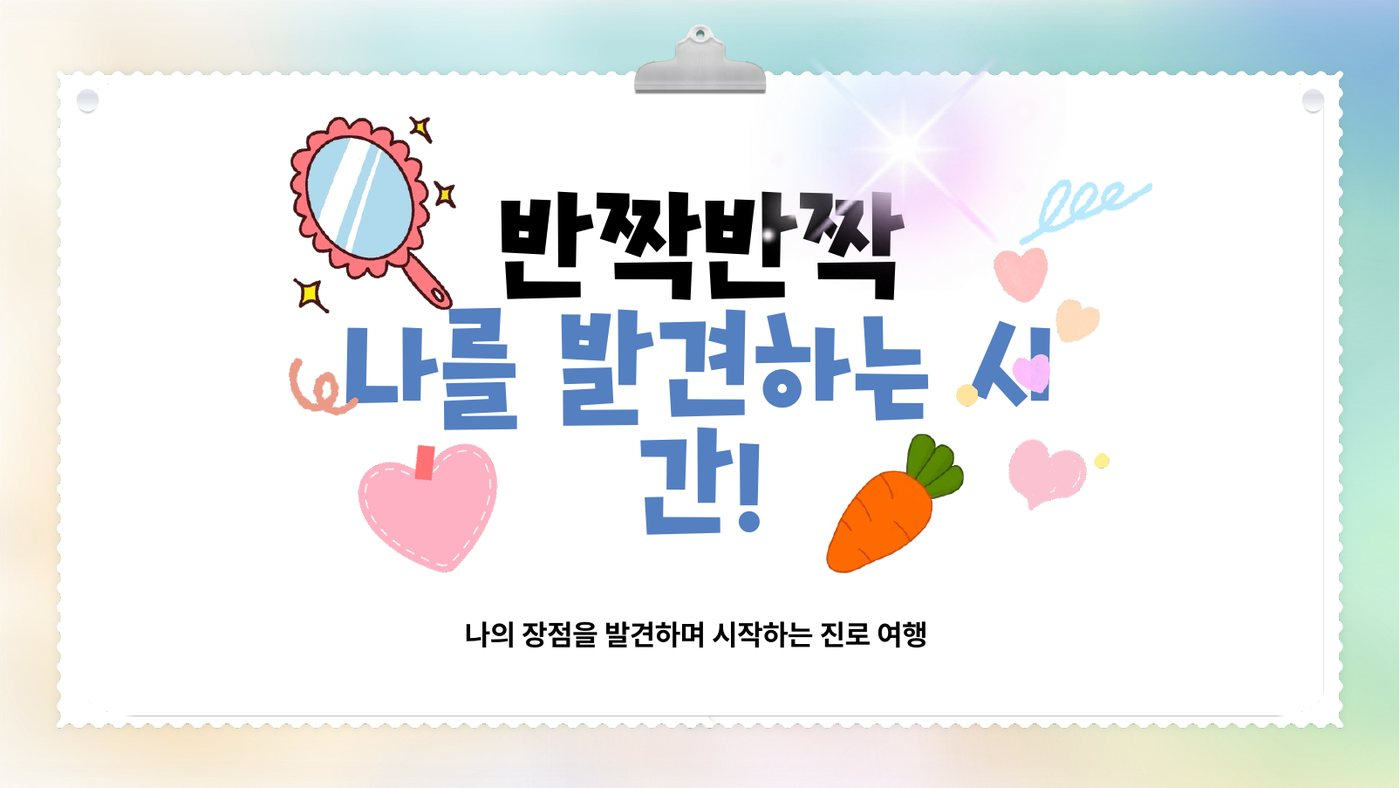
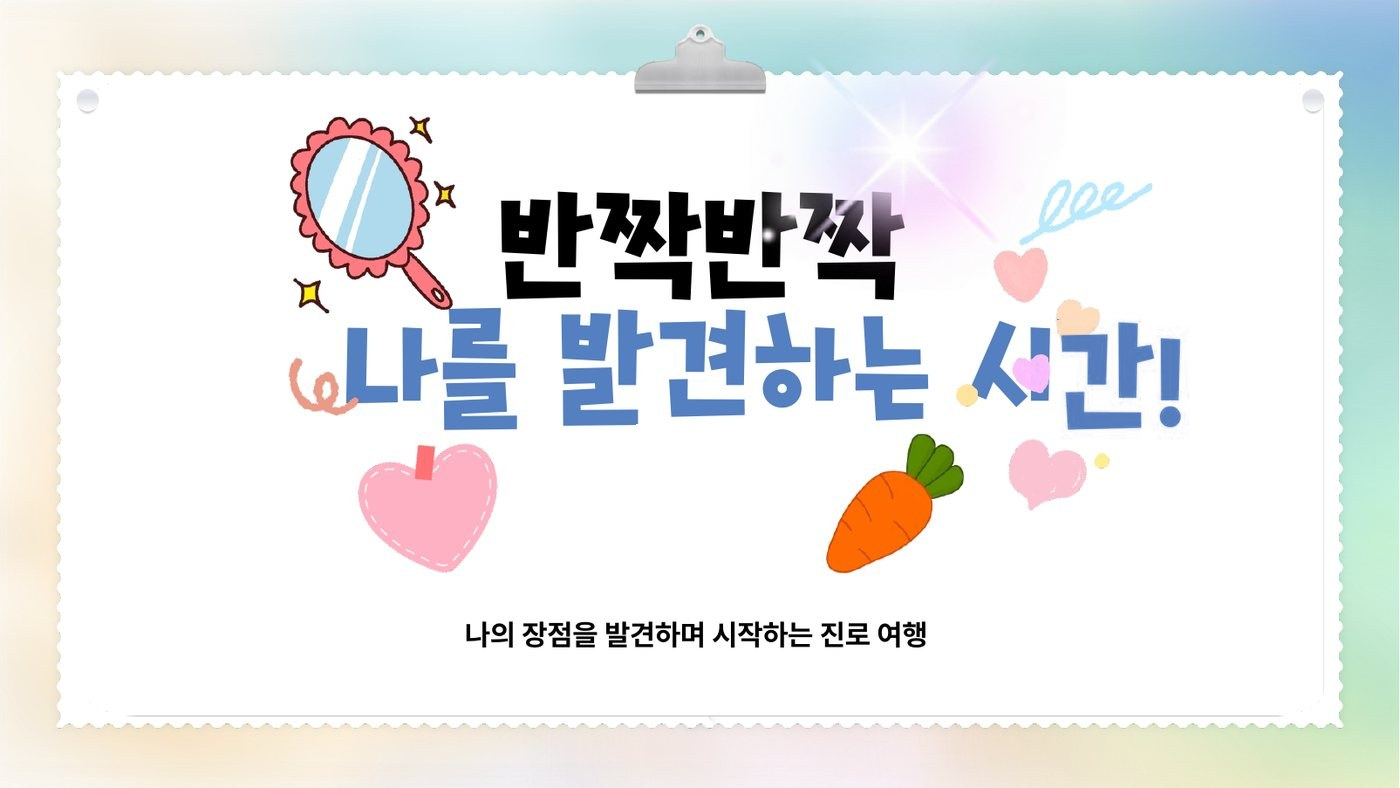
그림/활동 패널 비율 조절 손잡이 + 대문 제목 줄바꿈 수정
- 활동 화면에서 손잡이를 끌어 그림 비율 조절, 활동별로 저장(더블클릭 시 반반)
- 대문 슬라이드의 「시간!」이 「시 / 간!」으로 갈라지던 것을 한 줄로 합침

Claude-Session: https://claude.ai/code/session_013FszZwUFpfHtu9WvwWBJNG

Changed region(s): [[0.7371, 0.3959, 0.86, 0.5482], [0.4607, 0.5482, 0.5529, 0.7005]]

diff --git a/index.html b/index.html
@@ -107,8 +107,21 @@
     max-width:100%; max-height:100%; border-radius:18px; border:5px solid #fff;
     box-shadow:0 14px 40px rgba(150,110,70,.22); display:block; object-fit:contain; cursor:zoom-in;
   }
-  /* 활동 슬라이드 : 그림 절반 + 활동 절반 */
-  .slide.split .shot{flex:0 1 auto; width:50%; max-width:50%; height:auto}
+  /* 활동 슬라이드 : 그림 + 손잡이 + 활동 패널 (비율은 끌어서 조절) */
+  .slide.split .shot{flex:0 0 auto; height:auto}
+  .handle{
+    flex:0 0 auto; align-self:stretch; width:clamp(14px,1.3vw,22px);
+    display:flex; align-items:center; justify-content:center;
+    cursor:col-resize; border-radius:999px; background:transparent;
+    transition:background .15s; touch-action:none;
+  }
+  .handle::before{
+    content:""; width:6px; height:clamp(50px,18vh,140px); border-radius:999px;
+    background:var(--line); box-shadow:0 2px 0 rgba(180,140,100,.18); transition:background .15s, height .15s;
+  }
+  .handle:hover::before, .handle.drag::before{background:var(--theme); height:clamp(70px,26vh,200px)}
+  .handle:hover{background:var(--theme-soft)}
+  body.resizing{cursor:col-resize; user-select:none}
   .slide.split .actpanel{
     flex:1 1 0; min-width:0; height:100%;
     background:var(--card); border-radius:var(--r); box-shadow:var(--shadow);
@@ -342,7 +355,8 @@
     .step.on .stitle{display:inline}
     .icon-btn{font-size:clamp(10px,2.6vw,13px); padding:.4em .5em; border-radius:10px}
     .slide{flex-direction:column; gap:8px}
-    .slide.split .shot{width:auto; max-width:100%; max-height:34vh; flex:0 0 auto}
+    .slide.split .shot{width:auto !important; max-width:100% !important; max-height:34vh; flex:0 0 auto}
+    .handle{display:none}
     .slide.split .actpanel{height:auto; flex:1 1 auto; width:100%; padding:11px 13px}
     .lead{font-size:clamp(16px,4.4vw,26px)}
     .q .qtext{font-size:clamp(13px,3.7vw,20px)}
@@ -390,6 +404,7 @@
   <div class="stagearea">
     <div class="slide" id="slide">
       <img class="shot" id="shot" src="img/intro.jpg" alt="수업 자료">
+      <div class="handle" id="handle" title="끌어서 그림 크기를 조절하세요" hidden></div>
 
       <!-- 그림책 읽기 -->
       <div class="actpanel" id="actBook" hidden>
@@ -607,7 +622,8 @@
     <div class="tip">
       <b>활동 2 자리 배치</b> — 책상을 두 줄로 마주 보게 놓고, <b>안쪽 줄은 그대로</b>, <b>바깥줄만 오른쪽으로 한 칸</b> 옮기면 됩니다.
       맨 끝 학생은 반대쪽 끝으로. 이렇게 하면 <b>학급 인원의 절반만큼</b> 거래했을 때 모두가 서로 한 번씩 만납니다.<br>
-      <b>넘기기</b> — 스페이스·엔터·오른쪽 화살표로 다음 슬라이드, 왼쪽 화살표로 이전. 숫자 <b>1·2·3·4</b>는 각 단계 첫 화면으로 점프합니다.
+      <b>넘기기</b> — 스페이스·엔터·오른쪽 화살표로 다음 슬라이드, 왼쪽 화살표로 이전. 숫자 <b>1·2·3·4</b>는 각 단계 첫 화면으로 점프합니다.<br>
+      <b>화면 비율</b> — 활동 화면에서 그림과 활동 패널 사이의 <b>손잡이를 좌우로 끌면</b> 비율이 바뀝니다. 활동마다 따로 기억되고, 손잡이를 <b>두 번 클릭</b>하면 반반으로 돌아갑니다.
     </div>
 
     <div class="setup-actions">
@@ -664,6 +680,7 @@
     sound:true, signal:"youtube", signalText:"당근왔숑!", customSound:"",
     yt:{ id:"FtGC_nRpbTk", start:0, dur:4, show:false },
     hints:JSON.parse(JSON.stringify(HINT_DEFAULT)),
+    split:{ book:50, write:50, market:50, letter:50 },   // 활동별 그림 폭(%)
     s1:{ sec:600, book:"내가 너라서 좋아", lead:"그림책을 함께 읽어 봅시다",
          qs:["거울 속의 내가 주인공에게 해준 말 중 가장 기억에 남는 말은 무엇인가요?",
              "거울이 여러분에게 말을 해준다면, 여러분은 어떤 말을 듣고 싶나요?"],
@@ -997,6 +1014,8 @@
 
     for(var k in PANELS) $(PANELS[k]).hidden = (s.act !== k);
     slideEl.className = "slide" + (s.act ? " split" : "");
+    $("handle").hidden = !s.act;
+    applySplit();
 
     if(s.act === "book") renderBook();
     else if(s.act === "write") renderWrite();
@@ -1010,6 +1029,54 @@
 
     renderTimer();
   }
+  /* 그림 / 활동 패널 비율 : 손잡이를 끌어 조절, 활동마다 따로 기억 */
+  function splitPct(){
+    var a = cur().act;
+    var v = a && cfg.split ? Number(cfg.split[a]) : 50;
+    return (isFinite(v) && v >= 20 && v <= 78) ? v : 50;
+  }
+  function applySplit(){
+    if(!cur().act){ shot.style.width = ""; shot.style.maxWidth = ""; return; }
+    var pct = splitPct();
+    shot.style.width = pct + "%";
+    shot.style.maxWidth = pct + "%";
+  }
+  (function initHandle(){
+    var handle = $("handle"), dragging = false;
+    function pctFromX(clientX){
+      var r = slideEl.getBoundingClientRect();
+      if(!r.width) return splitPct();
+      return Math.max(20, Math.min(78, (clientX - r.left) / r.width * 100));
+    }
+    handle.addEventListener("pointerdown", function(e){
+      if(!cur().act) return;
+      dragging = true;
+      handle.classList.add("drag");
+      document.body.classList.add("resizing");
+      try{ handle.setPointerCapture(e.pointerId); }catch(err){}
+      e.preventDefault();
+    });
+    handle.addEventListener("pointermove", function(e){
+      if(!dragging) return;
+      cfg.split[cur().act] = Math.round(pctFromX(e.clientX));
+      applySplit();
+    });
+    function end(){
+      if(!dragging) return;
+      dragging = false;
+      handle.classList.remove("drag");
+      document.body.classList.remove("resizing");
+      saveCfg();
+    }
+    handle.addEventListener("pointerup", end);
+    handle.addEventListener("pointercancel", end);
+    // 더블클릭하면 반반으로
+    handle.addEventListener("dblclick", function(){
+      if(!cur().act) return;
+      cfg.split[cur().act] = 50; applySplit(); saveCfg();
+    });
+  })();
+
   function go(i){
     if(i < 0 || i >= DECK.length) return;
     // 슬라이드를 떠날 때 타이머 정지

diff --git a/README.md b/README.md
@@ -33,7 +33,8 @@
 | 19 | 세 거울 | |
 | 20 | 감사합니다 | |
 
-활동 화면은 **그림이 화면의 절반**, 나머지 절반이 활동 패널입니다.
+활동 화면은 그림과 활동 패널이 나란히 놓입니다. **사이의 손잡이를 좌우로 끌면 비율이 바뀌고**,
+그 비율은 **활동마다 따로 저장**됩니다. 손잡이를 두 번 클릭하면 반반으로 돌아갑니다.
 활동 2만 큰 링 타이머를 함께 띄웁니다 — 거래 시간이 중요하기 때문입니다.
 
 ## 활동 2 · 당근 장점마켓
@@ -64,7 +65,7 @@
 - 모든 시간·문구·인원·힌트 카드 내용을 설정에서 수정 → 브라우저에 자동 저장
 
 ## 단축키
-`→`·`Enter` 다음 · `←` 이전 · `Space` (활동 화면에선 타이머 시작/멈춤, 그 밖엔 다음) · `↑` 시간 추가 · `1`~`4` 단계 이동 · `H` 힌트 카드 · `F` 전체화면 · `Esc` 닫기
+손잡이 드래그로 화면 비율 조절 · `→`·`Enter` 다음 · `←` 이전 · `Space` (활동 화면에선 타이머 시작/멈춤, 그 밖엔 다음) · `↑` 시간 추가 · `1`~`4` 단계 이동 · `H` 힌트 카드 · `F` 전체화면 · `Esc` 닫기
 
 ## 활동 2 자리 배치
 책상을 두 줄로 마주 보게 놓고 **안쪽 줄은 고정**, **바깥줄만 오른쪽으로 한 칸** 이동.
